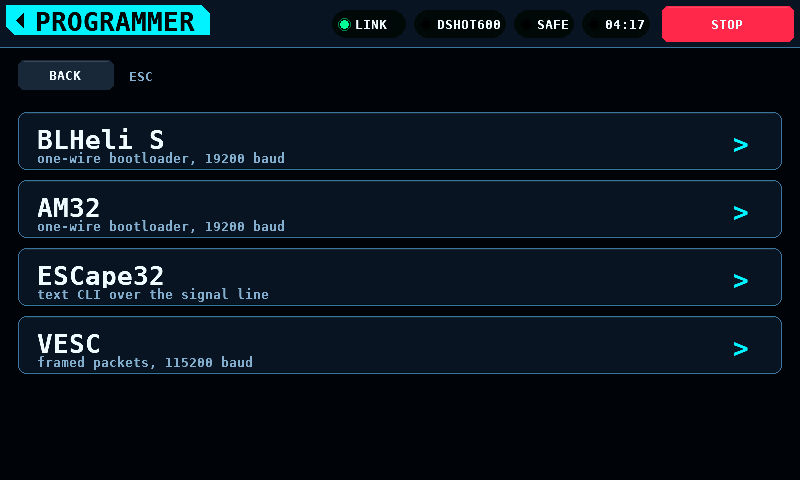
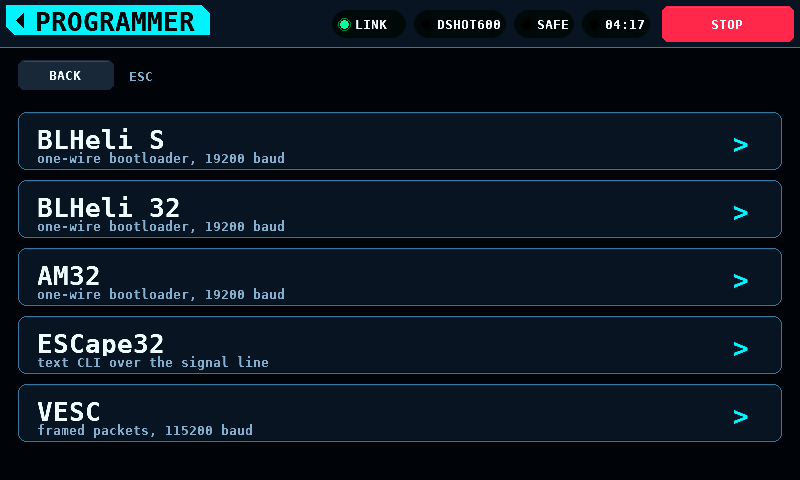
Timing is degrees, except where it is not
BLHeli_S puts motor timing in named steps because that is what its own
configurator does.  Every firmware after it settled on degrees of
advance, nought to about thirty -- BLHeli_32 allows 0 to 31 and defaults
near sixteen, AM32 wants fifteen to twenty-five depending on the motor.

So AM32's and ESCape32's timing are numbers in degrees now and
BLHeli_S's stays a list of names, which is the honest description of
what those two firmwares actually are.  Two representations of one
physical quantity, in one screen, drawn by the same code: the definition
carries its kind, and nothing in the renderer had to be told.  That was
the argument for the table and this is the first thing to test it.

BLHeli_32 was also simply missing, which is a strange gap given it is
what most people mean by BLHeli.  It is in, with timing and PWM as
degrees and kilohertz rather than as names, and with bidirectional
DShot -- rpm back up the signal wire with no telemetry lead at all,
which is the one ESC feature this bench most wants.

diff --git a/shared/ui/programmer_screen.c b/shared/ui/programmer_screen.c
@@ -111,6 +111,14 @@ typedef enum { STAGE_CLASS = 0, STAGE_PROTOCOL, STAGE_DEVICE } stage_t;
 /* ------------------------------------------------------- the parameters */
 
 static const char *const k_dir[]    = { "NORMAL", "REVERSED", "BIDIRECTIONAL" };
+/*
+ * BLHeli_S alone puts timing in named steps, because that is what its
+ * configurator does; every firmware after it settled on degrees of advance,
+ * and 0 to 31 is the range they all use.  Two representations of the same
+ * physical quantity, in one list, drawn by the same renderer -- which is the
+ * argument for the definitions carrying their own kind rather than the
+ * screen assuming one.
+ */
 static const char *const k_timing[] = { "LOW", "MEDIUM LOW", "MEDIUM",
                                         "MEDIUM HIGH", "HIGH" };
 static const char *const k_pwm[]    = { "24 kHz", "48 kHz", "96 kHz" };
@@ -149,9 +157,9 @@ static const param_def_t k_am32[] = {
   { "MOTOR", "Motor direction", PARAM_ENUM,
     "Which way it turns, and whether reverse is allowed at all",
     k_dir, 3, 0,0,0,0, NULL, 0 },
-  { NULL, "Timing advance", PARAM_ENUM,
-    "How far ahead of the rotor the drive commutates",
-    k_timing, 5, 0,0,0,0, NULL, 2 },
+  { NULL, "Timing advance", PARAM_NUMBER,
+    "Degrees ahead of the rotor: more rpm and more heat, less is cooler",
+    NULL, 0, 0, 30, 1, 0, "deg", 22 },
   { NULL, "PWM frequency", PARAM_ENUM,
     "Higher is quieter and warmer; lower is efficient and audible",
     k_pwm, 3, 0,0,0,0, NULL, 1 },
@@ -169,13 +177,41 @@ static const param_def_t k_am32[] = {
     NULL, 0, 28, 38, 1, 1, "V", 33 },
 };
 
+static const char *const k_dshot[] = { "OFF", "ON" };
+static const param_def_t k_blheli32[] = {
+  { "MOTOR", "Motor direction", PARAM_ENUM,
+    "Which way it turns, and whether reverse is allowed at all",
+    k_dir, 3, 0,0,0,0, NULL, 0 },
+  { NULL, "Motor timing", PARAM_NUMBER,
+    "Degrees ahead of the rotor: more rpm and more heat, less is cooler",
+    NULL, 0, 0, 31, 1, 0, "deg", 16 },
+  { NULL, "PWM frequency", PARAM_NUMBER,
+    "Higher is quieter and warmer; lower is efficient and audible",
+    NULL, 0, 24, 96, 24, 0, "kHz", 48 },
+  { "STARTUP", "Startup power", PARAM_NUMBER,
+    "How hard it pushes to get moving before it can sense the rotor",
+    NULL, 0, 25, 150, 25, 0, "%", 100 },
+  { NULL, "Demag compensation", PARAM_ENUM,
+    "Backs off when the field collapses late: cures stalls under load",
+    k_demag, 3, 0,0,0,0, NULL, 1 },
+  { "PROTECTION", "Current limit", PARAM_NUMBER,
+    "The most it will draw through the motor, whatever is asked of it",
+    NULL, 0, 0, 200, 10, 0, "A", 0 },
+  { NULL, "Low voltage cut", PARAM_NUMBER,
+    "Per cell, where it starts pulling power back to save the pack",
+    NULL, 0, 28, 38, 1, 1, "V", 32 },
+  { "REPORTING", "Bidirectional DShot", PARAM_BOOL,
+    "Sends rpm back up the signal wire, with no telemetry lead at all",
+    k_dshot, 0, 0,0,0,0, NULL, 1 },
+};
+
 static const param_def_t k_escape32[] = {
   { "MOTOR", "Motor direction", PARAM_ENUM,
     "Which way it turns, and whether reverse is allowed at all",
     k_dir, 3, 0,0,0,0, NULL, 0 },
-  { NULL, "Timing", PARAM_ENUM,
-    "How far ahead of the rotor the drive commutates",
-    k_timing, 5, 0,0,0,0, NULL, 2 },
+  { NULL, "Timing", PARAM_NUMBER,
+    "Degrees ahead of the rotor: more rpm and more heat, less is cooler",
+    NULL, 0, 0, 30, 1, 0, "deg", 18 },
   { NULL, "PWM frequency", PARAM_ENUM,
     "Higher is quieter and warmer; lower is efficient and audible",
     k_pwm, 3, 0,0,0,0, NULL, 2 },
@@ -238,6 +274,8 @@ static const param_def_t k_hitec[] = {
 static const proto_t k_protos[] = {
     { "BLHeli_S", "one-wire bootloader, 19200 baud",
       "BLHeli_S 16.7  on  EFM8BB21", k_blheli,   8, CLASS_ESC },
+    { "BLHeli_32","one-wire bootloader, 19200 baud",
+      "BLHeli_32 32.9  on  STM32F051", k_blheli32, 8, CLASS_ESC },
     { "AM32",     "one-wire bootloader, 19200 baud",
       "AM32 2.15  on  STM32G071",    k_am32,     7, CLASS_ESC },
     { "ESCape32", "text CLI over the signal line",

diff --git a/test/host/test_programmer.c b/test/host/test_programmer.c
@@ -87,7 +87,7 @@ TEST_CASE(the_protocol_list_is_pressable_before_it_is_painted)
 {
     fresh();
     tap(TILE_CX(0), TILE_CY);
-    tap(ROW_CX, ROW_CY(1));                 /* AM32, never rendered */
+    tap(ROW_CX, ROW_CY(1));                 /* BLHeli_32, never rendered */
     tap(CONNECT_X, CONNECT_Y);
     CHECK(programmer_screen_connected());
     CHECK_EQ(programmer_screen_protocol(), 1);
@@ -105,8 +105,8 @@ TEST_CASE(a_class_shows_only_its_own_protocols)
     tap(CONNECT_X, CONNECT_Y);
     CHECK(!programmer_screen_connected());  /* still on the list */
 
-    tap(ROW_CX, ROW_CY(0));                 /* Hitec */
-    CHECK_EQ(programmer_screen_protocol(), 4);
+    tap(ROW_CX, ROW_CY(0));                 /* Hitec, the only servo one */
+    CHECK_EQ(programmer_screen_protocol(), 5);
 }
 
 /*
@@ -124,7 +124,7 @@ TEST_CASE(stepping_back_up_drops_the_connection)
     tap(BACK_X, BACK_Y);                    /* to the protocol list */
     CHECK(!programmer_screen_connected());
 
-    tap(ROW_CX, ROW_CY(2));                 /* ESCape32 */
+    tap(ROW_CX, ROW_CY(2));                 /* AM32 */
     CHECK_EQ(programmer_screen_protocol(), 2);
     CHECK(!programmer_screen_connected());
 }
@@ -180,7 +180,7 @@ TEST_CASE(each_protocol_starts_from_its_own_defaults)
     CHECK_EQ(programmer_screen_dirty(), 1);
 
     tap(BACK_X, BACK_Y);
-    tap(ROW_CX, ROW_CY(1));                     /* AM32 */
+    tap(ROW_CX, ROW_CY(2));                     /* AM32 */
     tap(CONNECT_X, CONNECT_Y);
     /* AM32's third row starts at 48 kHz on its own account, not because
      * BLHeli_S was left on index one. */
@@ -261,9 +261,9 @@ TEST_CASE(paging_reaches_the_rows_that_do_not_fit)
 /* Every protocol reaches its parameters and draws them. */
 TEST_CASE(every_protocol_draws_its_parameters)
 {
-    const int klass[5] = { 0, 0, 0, 0, 1 };
-    const int slot[5]  = { 0, 1, 2, 3, 0 };
-    for (int p = 0; p < 5; ++p) {
+    const int klass[6] = { 0, 0, 0, 0, 0, 1 };
+    const int slot[6]  = { 0, 1, 2, 3, 4, 0 };
+    for (int p = 0; p < 6; ++p) {
         fresh();
         tap(TILE_CX(klass[p]), TILE_CY);
         tap(ROW_CX, ROW_CY(slot[p]));

diff --git a/test/host/render_screen.c b/test/host/render_screen.c
@@ -253,7 +253,10 @@ int main(int argc, char **argv)
         ui_router_goto(SCREEN_PROGRAMMER);
         tap(210, UI_BAND_H + 180);              /* the ESC tile */
         if (strcmp(view, "programmer-protocols") != 0) {
-            tap(400, UI_BAND_H + 92);           /* BLHeli_S */
+            /* Slot two is AM32, whose timing is degrees rather than named
+             * steps -- the same renderer, a different kind. */
+            tap(400, UI_BAND_H + (strcmp(view, "programmer-am32") == 0
+                                  ? 92 + 2 * 68 : 92));
             if (strcmp(view, "programmer-idle") != 0) {
                 tap(698, UI_BAND_H + 70);       /* CONNECT */
                 if (strcmp(view, "programmer-dirty") == 0) {

diff --git a/tools/render_ui.py b/tools/render_ui.py
@@ -75,6 +75,7 @@ SCREENS = {
     "programmer-idle": ("programmer-idle.png", "programmer", "dark"),
     "programmer-params": ("programmer-params.png", "programmer", "dark"),
     "programmer-dirty": ("programmer-dirty.png", "programmer", "dark"),
+    "programmer-am32": ("programmer-am32.png", "programmer", "dark"),
     "logs-import":("logs-import.png","logs",       "dark"),
     "logs-plot":  ("logs-plot.png",  "logs",       "dark"),
     "setup":      ("setup.png",      "setup",      "dark"),

diff --git a/docs/Performance.md b/docs/Performance.md
@@ -24,12 +24,12 @@ panel 39.0 Hz, ~39 MB/s effective -> 976 KiB of traffic per panel frame
 mode       lines/frame     traffic   est. ms  est. fps
 -------------------------------------------------------
 frame           10,829     1354 KiB     35.5      19.5
-frame-idle          930      116 KiB      3.1      39.0
+frame-idle          921      115 KiB      3.0      39.0
 sim             11,638     1455 KiB     38.2      19.5
-chrome          30,334     3792 KiB     99.6       9.8
-overview           922      115 KiB      3.0      39.0
+chrome          30,338     3792 KiB     99.6       9.8
+overview           918      115 KiB      3.0      39.0
 servo           15,409     1926 KiB     50.6      19.5
-servo-grip        2,955      369 KiB      9.7      39.0
+servo-grip        2,952      369 KiB      9.7      39.0
 clear           12,006     1501 KiB     39.4      19.5
 vlines           8,160     1020 KiB     26.8      19.5
 hlines               0        0 KiB      0.0      39.0

diff --git a/docs/Screens.md b/docs/Screens.md
@@ -170,6 +170,14 @@ nobody has.
 
 ![Connected](img/programmer-params.png)
 
+Timing is the clearest evidence for that. BLHeli_S puts it in named steps
+because that is what its own configurator does; every firmware after it settled
+on degrees of advance, nought to about thirty. Two representations of one
+physical quantity, in one list, drawn by the same code -- the definition says
+which kind it is, and that is the whole of the difference:
+
+![Degrees rather than named steps](img/programmer-am32.png)
+
 That is how the real configurators do it, and the reason they are right is
 worth stating rather than only that they agree: a screen with one widget per
 setting drifts, because the fortieth setting is written by somebody in a hurry.
